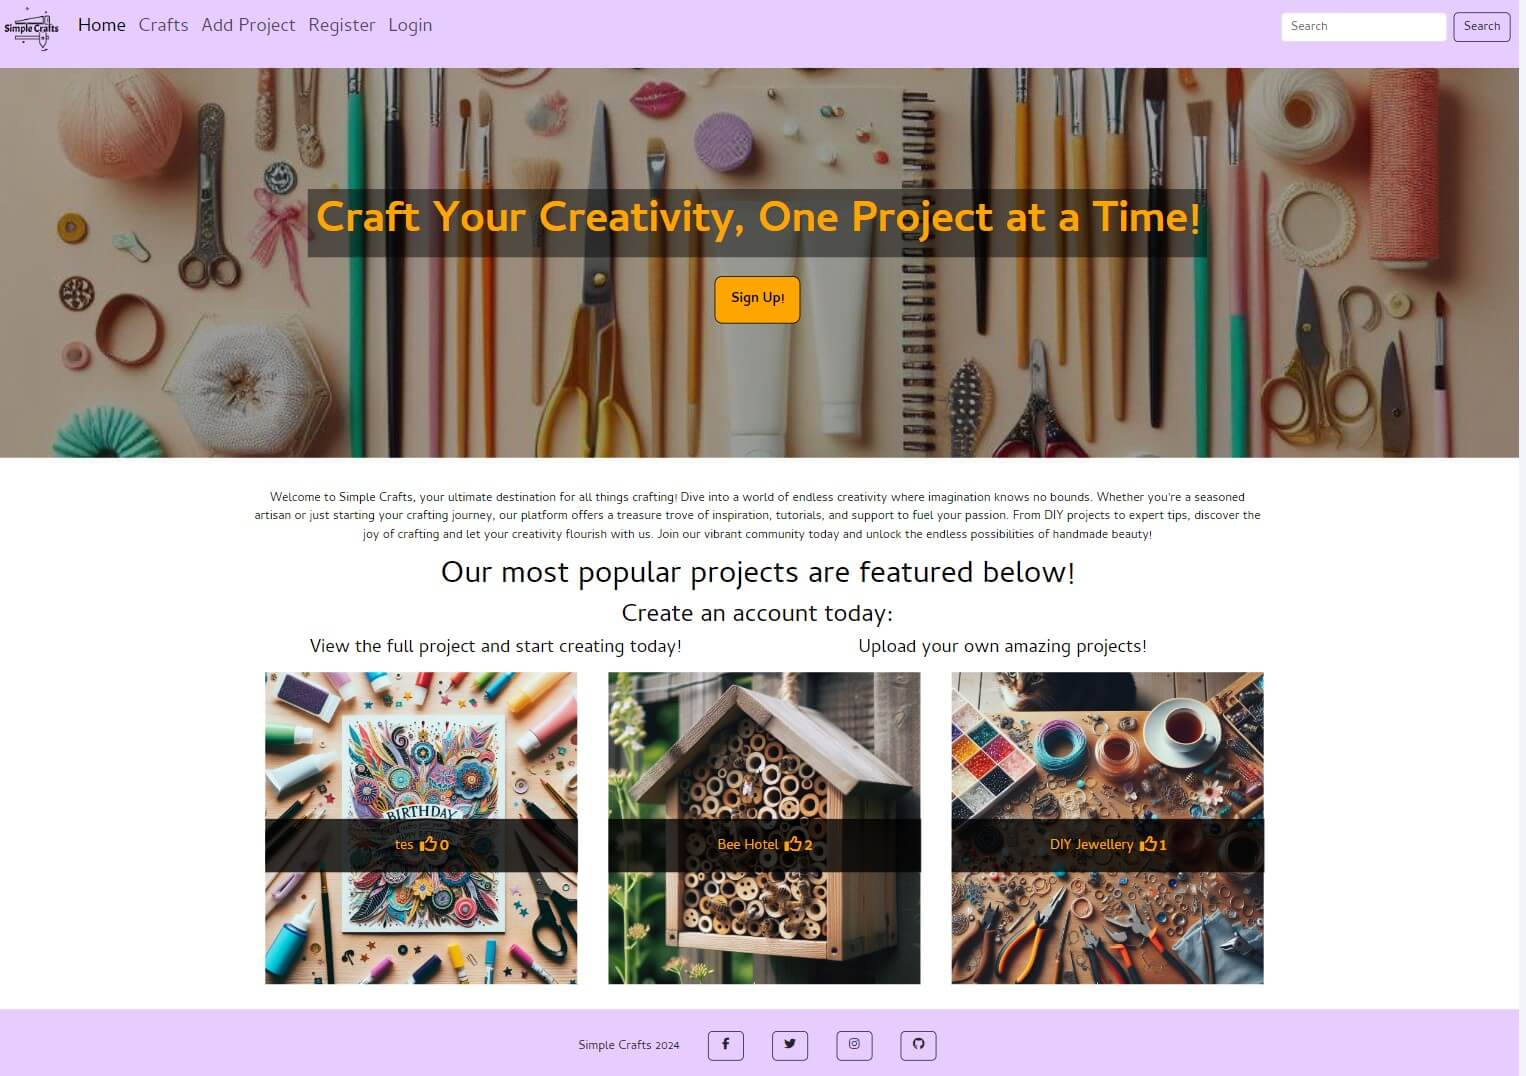
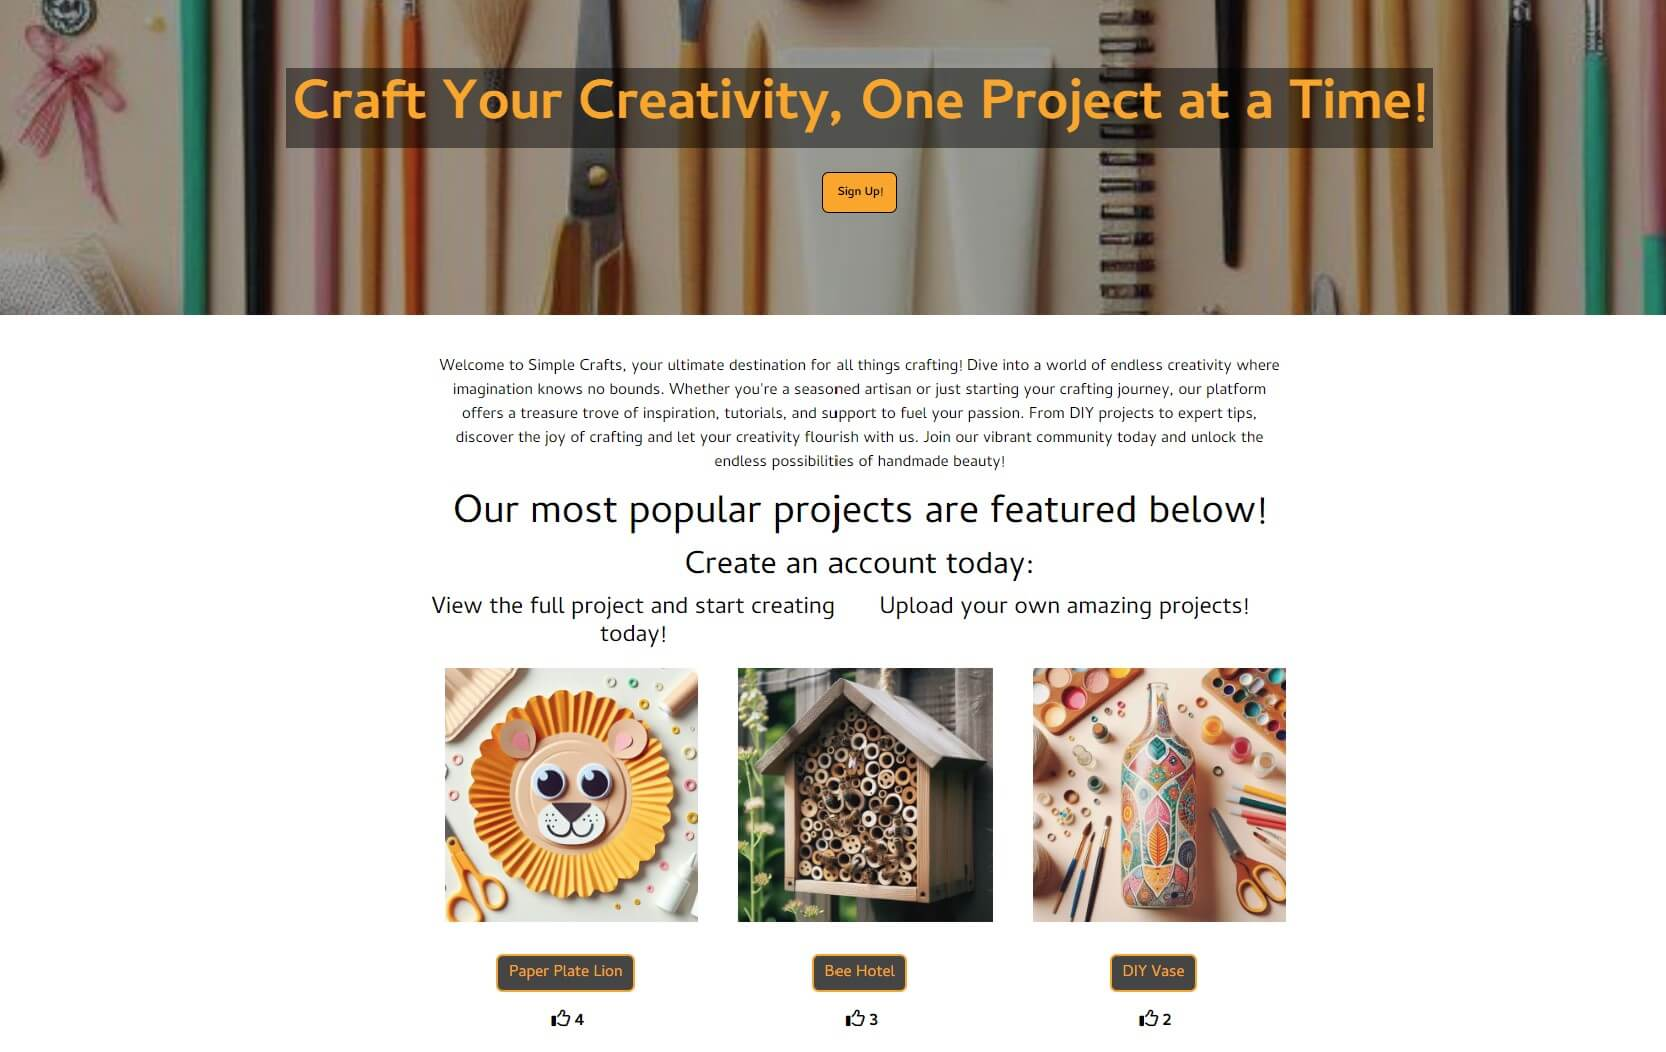
Add meta tags to head

diff --git a/static/css/style.css b/static/css/style.css
@@ -35,7 +35,6 @@ body {
     background-color: white;
     font-family: Cambay, sans-serif;
     color: black;
-
 }
 
 .inline-p {
@@ -80,9 +79,7 @@ footer {
 
 .clickable {
     background-color:  rgba(0, 0, 0, 0.729);
-    
     border: 3px solid orange;
-
     color: orange;
     border-radius: 10px;
     text-decoration: none;
@@ -161,18 +158,6 @@ hr {
     justify-content: center;
     align-items: center;
     }
-
-.jumbotron-container-logged {
-        background-image: url("https://res.cloudinary.com/dshyrmsg2/image/upload/v1710948486/banner_image_gazfp0.jpg");
-        background-color: rgba(0, 0, 0, 0.408);
-        background-blend-mode: overlay;
-        height: 500px;
-        background-size: cover;
-        background-position: center;
-        display: flex;
-        justify-content: center;
-        align-items: center;
-        }
 
 .button-jumbo {
 	border-radius:10px;
@@ -308,7 +293,7 @@ a.home-images {
         background-image: url("https://res.cloudinary.com/dshyrmsg2/image/upload/v1710948486/banner_image_gazfp0.jpg");
         background-color: rgba(0, 0, 0, 0.36);
         background-blend-mode: overlay;
-        height: 900px;
+        height: 700px;
         background-size: cover;
         background-position: center;
         display: flex;

diff --git a/staticfiles/css/style.css b/staticfiles/css/style.css
@@ -35,7 +35,6 @@ body {
     background-color: white;
     font-family: Cambay, sans-serif;
     color: black;
-
 }
 
 .inline-p {
@@ -80,9 +79,7 @@ footer {
 
 .clickable {
     background-color:  rgba(0, 0, 0, 0.729);
-    
     border: 3px solid orange;
-
     color: orange;
     border-radius: 10px;
     text-decoration: none;
@@ -161,18 +158,6 @@ hr {
     justify-content: center;
     align-items: center;
     }
-
-.jumbotron-container-logged {
-        background-image: url("https://res.cloudinary.com/dshyrmsg2/image/upload/v1710948486/banner_image_gazfp0.jpg");
-        background-color: rgba(0, 0, 0, 0.408);
-        background-blend-mode: overlay;
-        height: 500px;
-        background-size: cover;
-        background-position: center;
-        display: flex;
-        justify-content: center;
-        align-items: center;
-        }
 
 .button-jumbo {
 	border-radius:10px;
@@ -308,7 +293,7 @@ a.home-images {
         background-image: url("https://res.cloudinary.com/dshyrmsg2/image/upload/v1710948486/banner_image_gazfp0.jpg");
         background-color: rgba(0, 0, 0, 0.36);
         background-blend-mode: overlay;
-        height: 900px;
+        height: 700px;
         background-size: cover;
         background-position: center;
         display: flex;

diff --git a/templates/base.html b/templates/base.html
@@ -9,6 +9,11 @@
 <head>
     <meta charset="UTF-8">
     <meta name="viewport" content="width=device-width, initial-scale=1.0">
+    <meta http-equiv="X-UA-Compatible" content="ie=edge">
+    <meta name="description" content="join our community to get creating with our massive range of craft projects for you to try out at home">
+    <meta name="keywords" content="crafts, arts, diy, creative, design">
+    <meta name="author" content="Ifzal">
+
     <title>Simple Crafts {% block title %}{% endblock %}</title>
 
     <!-- Bootstrap CSS -->

diff --git a/home/templates/home/home.html b/home/templates/home/home.html
@@ -5,7 +5,7 @@
 
 {% if request.user.is_authenticated %}
 
-<div class="jumbotron jumbotron-fluid jumbotron-container-logged p-5">
+<div class="jumbotron jumbotron-fluid jumbotron-container jumbotron-container-logged p-5">
     <div class="text-center">
         <h4 class="display-4" id="jumbo-text">Hello {{request.user.username}}, welcome back to Simple Crafts</h4>
     </div>

diff --git a/README.md b/README.md
@@ -7,6 +7,8 @@ The site will feature all the information needed to craft the featured projects,
 
 ![Home page responsive](assets/readme-images/responsivemain.jpg)
 
+[Link to deployed site](https://simple-crafts-b645ce9ac856.herokuapp.com/)
+
 # UX
 
 The website is mainly geared towards adults who would like to carry out some diy craft projects, however a 'kids' category is also included in the modedls so that parents can also carry out fun activities with their children.
@@ -319,11 +321,15 @@ Users are shown success messages at the top of the screen to confirm that they h
 
 ![Success Messages](assets/readme-images/successmessage.jpg)
 
-**Customised 404 page**
+**Customised 404 and 403 error pages**
 
 For a better user experience, if a user ends up at an invalid page they are taken to a 404 error page from where they can click a button to return to the homepage
 
-![404 page](assets/test-images/404error.jpg)
+![404 page](assets/readme-images/404error.png)
+
+Although the edit and delete buttons are hidden from users who are not admin or authors of the post, they could try and access via the address bar, they will be directed to the 403 forbidden page from where they can return to homepage
+
+![403 error](assets/readme-images/403error.jpg)
 
 **Search Bar**
 
@@ -332,9 +338,6 @@ Users are able to search using keywords featured in the title, description or ca
 ![Search bar](assets/readme-images/searchbar.jpg)
 
 
-For some/all of your features, you may choose to reference the specific project files that implement them.
-
-In addition, you may also use this section to discuss plans for additional features to be implemented in the future:
 
 ### Features Left to Implement
 
@@ -350,6 +353,8 @@ Balsamiq - to create site wireframes.
 
 Lucidcharts - to create ERD and flow chart
 
+Git used for version control
+
 GitHub - Holds the repository of my project, GitHub connects to GitPod and Heroku.
 
 GitPod – Connected to GitHub, GitPod hosted the coding space, allowing the project to be built and then committed to the GitHub repository.
@@ -360,9 +365,9 @@ Django - This framework was used to build the foundations of this project
 
 Gunicorn - Gunicorn is a pure-Python HTTP server for WSGI applications.
 
-Bootstrap - used for styling the website
+Bootstrap - used for styling the website.
 
-Cloudinary - Used to store images online for the recipe posts.
+Cloudinary - Used to host images.
 
 Google Fonts - provide fonts for the website.
 
@@ -375,8 +380,6 @@ W3C Markup Validator - used to validate HTML
 W3C CSS Validator - used to validate CSS
 
 Code Institute python linter - used to validate python code
-
- 
 
 
 ## Testing 

diff --git a/testing.md b/testing.md
@@ -82,6 +82,7 @@ I used the CI Python Linter https://pep8ci.herokuapp.com/# on all my .py files. 
 |Homepage images and project title buttons | These appear for non logged in users and lead to sign in form if clicked | passed |
 | Success Messages | Success messages appear at top of screen after a user registers, logs in, adds a project, edits/updates a project or deletes a project | passed |
 | 404 page | If user tries to access an invalid page that doesnt exist they are redirected to 404 error page and from here they can click a button to return to home screen | passed |
+| 403 page | If user tries to perform an action or reach an area they are not authorised for, such as editing or deleting a project they are not the author of, they are redirected to the 403 error page and from here they can click a button to return to home screen | passed |
  
 
 
@@ -136,7 +137,7 @@ Desktop Results:
 
 **Homepage**
 
-![Homepaeg desktop](assets/test-images/lighthouse-home.jpg)
+![Homepage desktop](assets/test-images/lighthouse-home.jpg)
 
 **Crafts Page**
 
